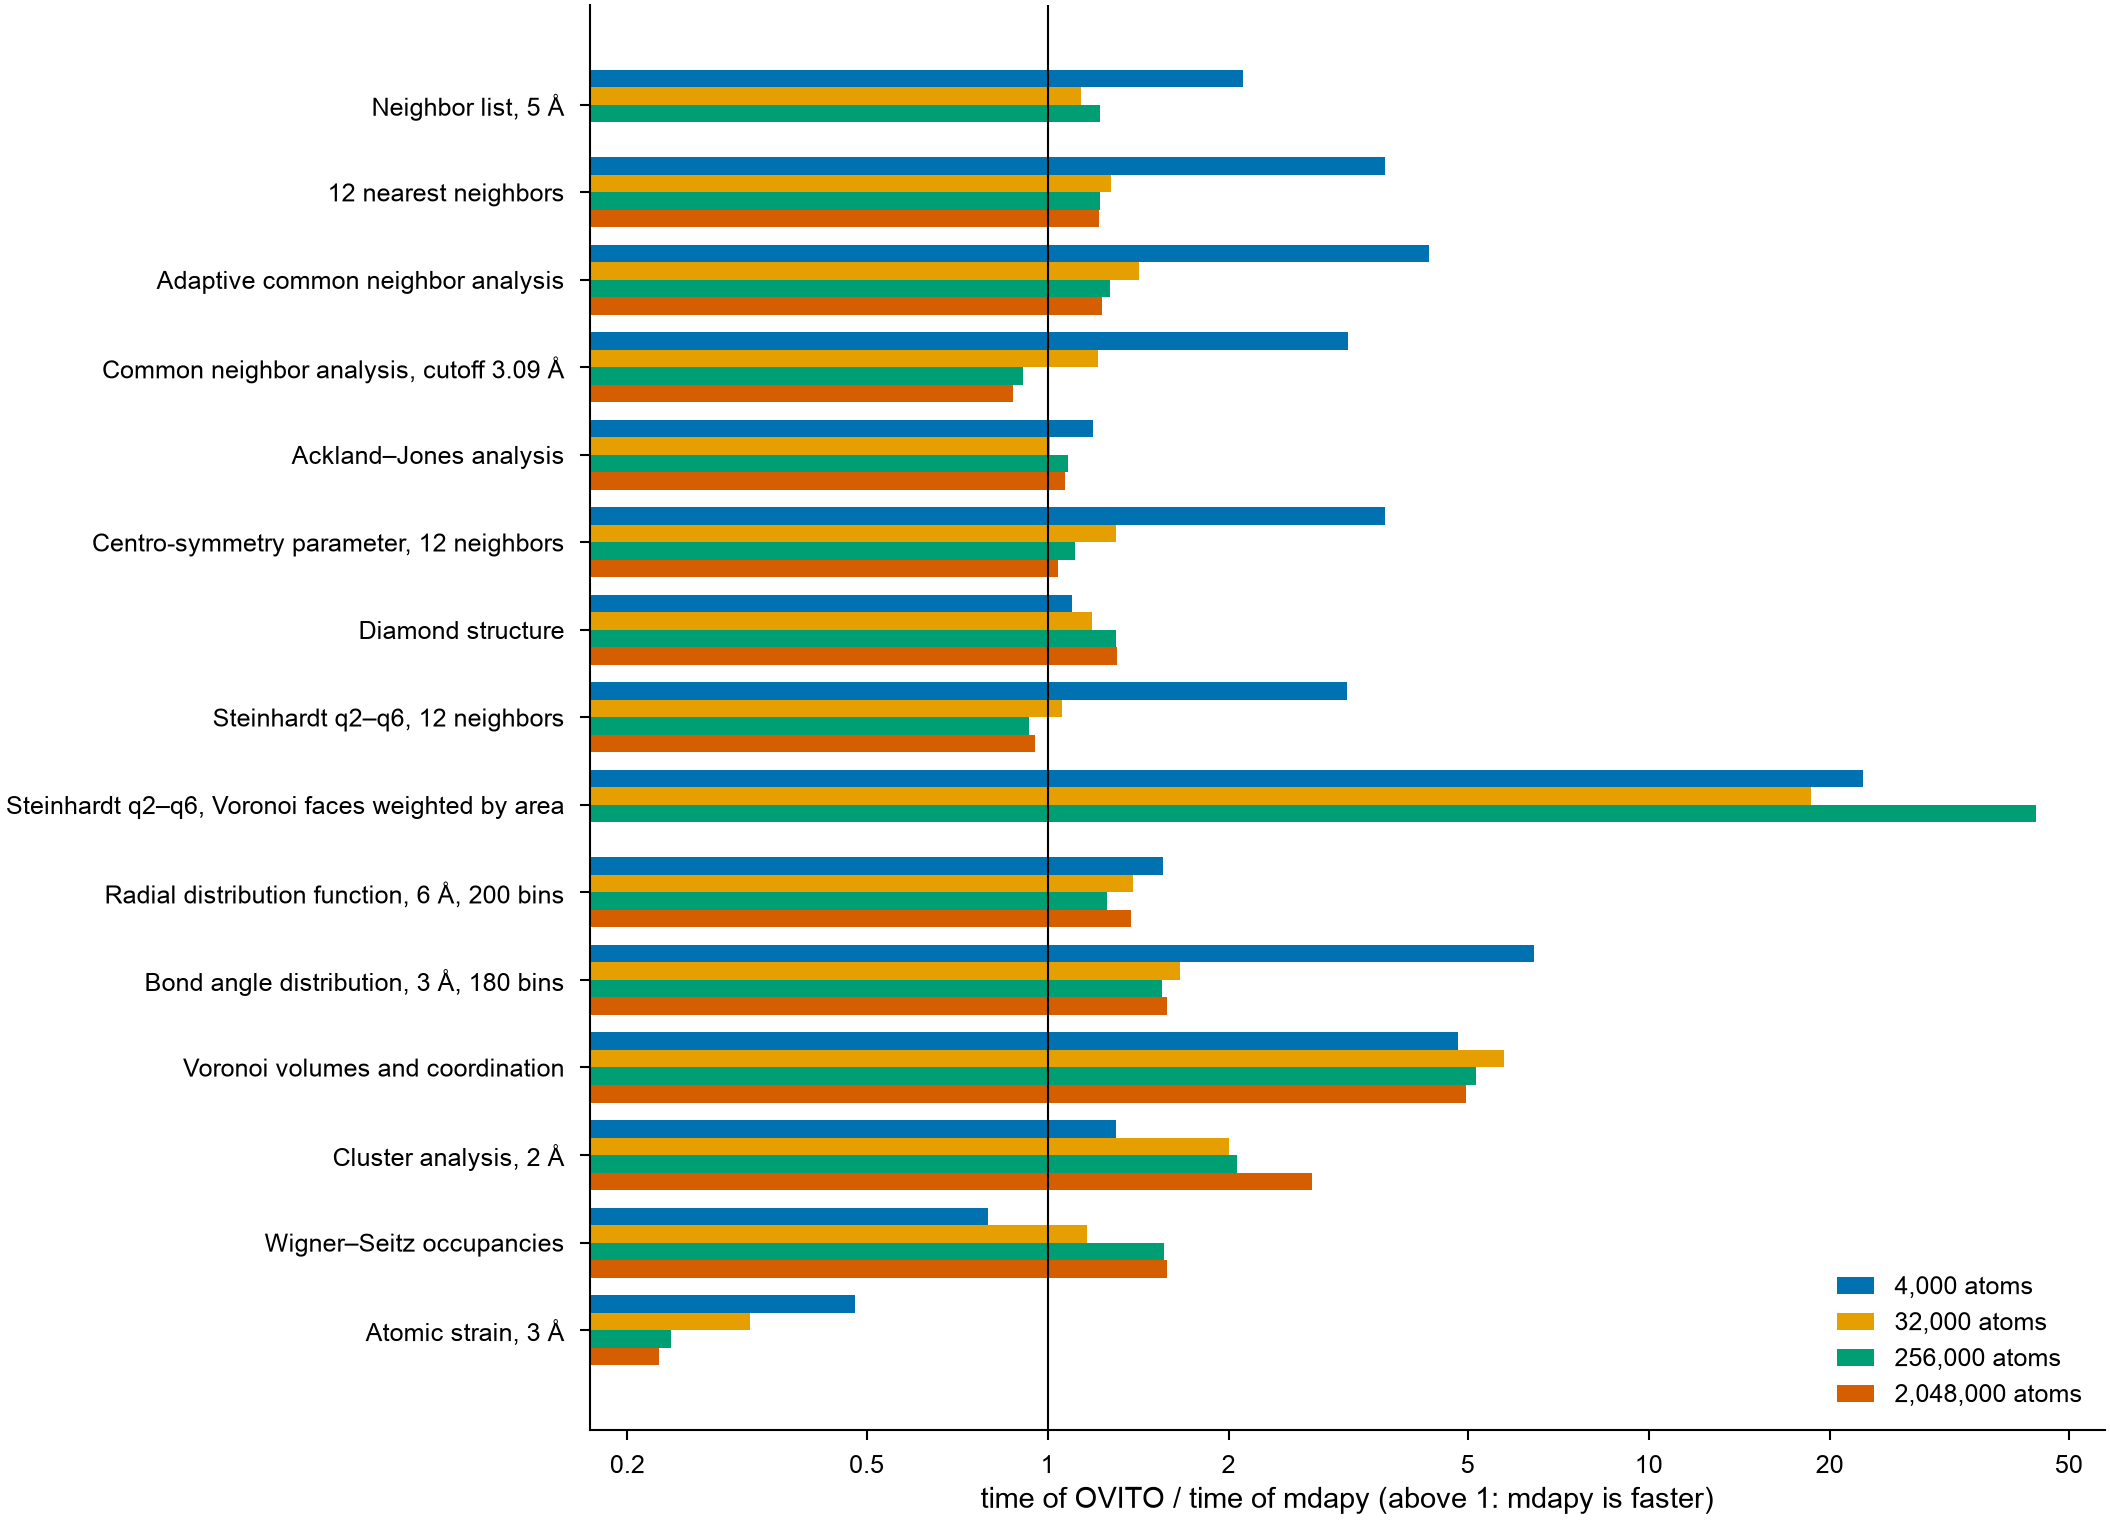
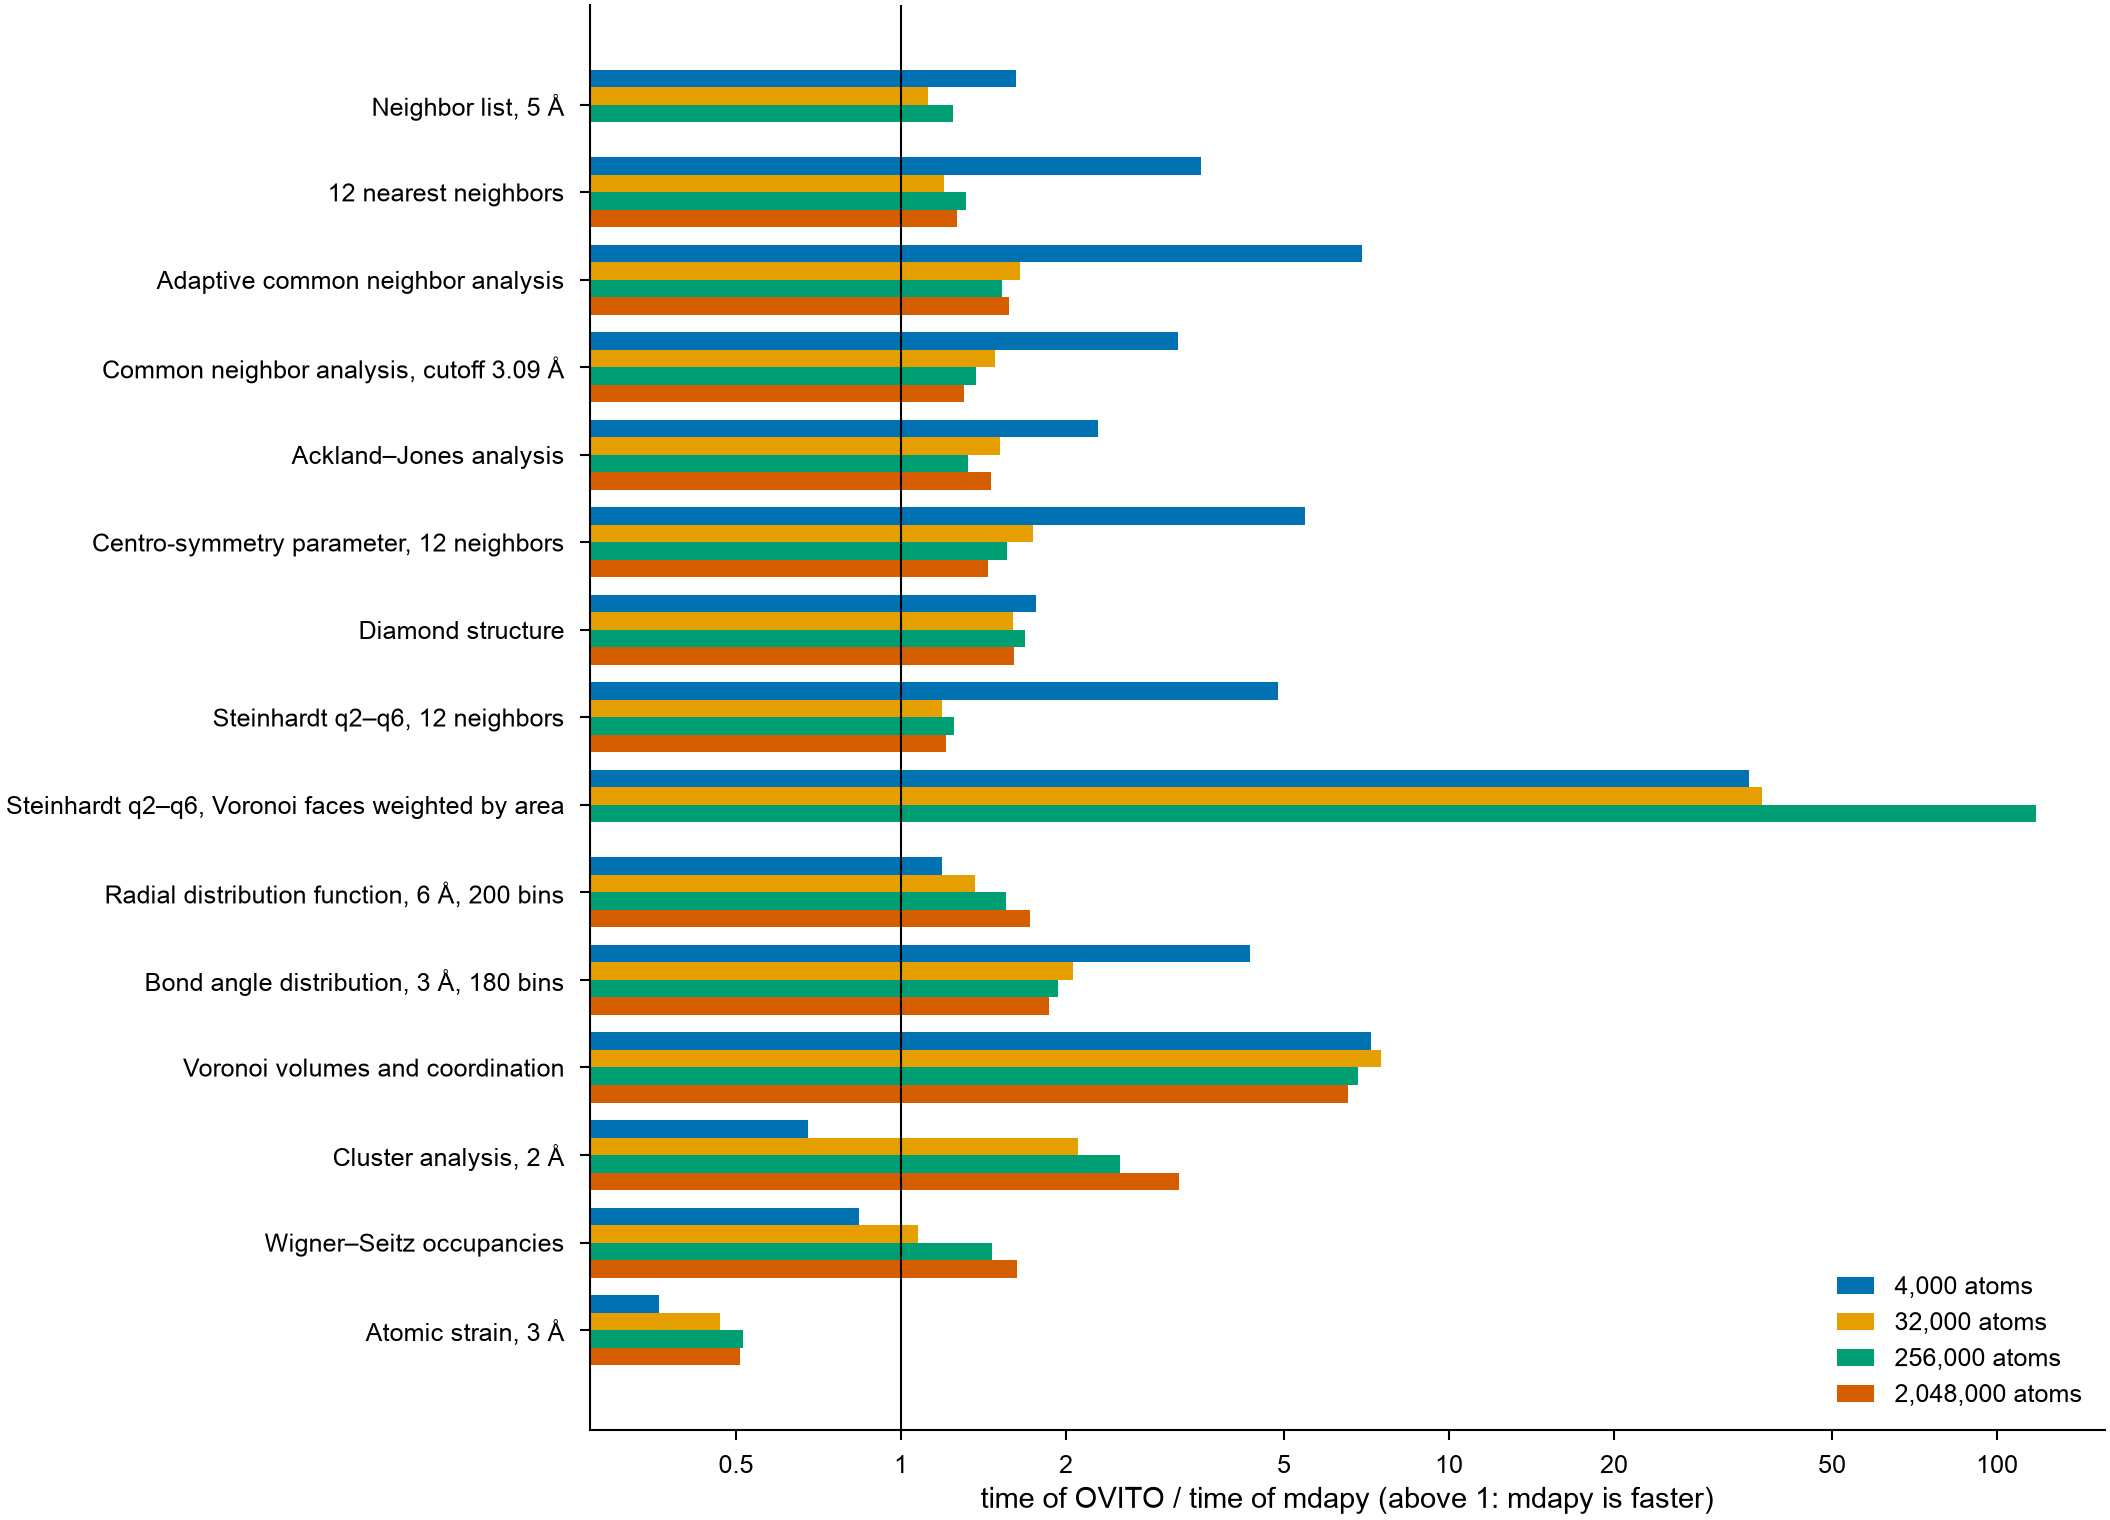
Performance against OVITO with every speedup

diff --git a/docs/performance/ovito.md b/docs/performance/ovito.md
@@ -17,41 +17,39 @@ memory of the process minus its peak before the timings.
 
 | Case | Atoms | mdapy (s) | OVITO (s) | OVITO / mdapy | mdapy (MB) | OVITO (MB) |
 |---|---:|---:|---:|---:|---:|---:|
-| Neighbor list, 5 Å | 256,000 | 0.058 | 0.071 | 1.22 | 208 | 799 |
-| 12 nearest neighbors | 2,048,000 | 0.353 | 0.430 | 1.22 | 437 | 857 |
-| Adaptive common neighbor analysis | 2,048,000 | 0.534 | 0.656 | 1.23 | 1154 | 147 |
-| Common neighbor analysis, cutoff 3.09 Å | 2,048,000 | 0.211 | 0.185 | 0.88 | 133 | 120 |
-| Ackland–Jones analysis | 2,048,000 | 0.606 | 0.647 | 1.07 | 1151 | 150 |
-| Centro-symmetry parameter, 12 neighbors | 2,048,000 | 0.477 | 0.497 | 1.04 | 1001 | 112 |
-| Diamond structure | 2,000,376 | 0.303 | 0.394 | 1.30 | 369 | 382 |
-| Steinhardt q2–q6, 12 neighbors | 2,048,000 | 0.563 | 0.537 | 0.95 | 1077 | 190 |
-| Steinhardt q2–q6, Voronoi faces weighted by area | 256,000 | 0.347 | 15.320 | 44.09 | 499 | 57 |
-| Radial distribution function, 6 Å, 200 bins | 2,048,000 | 0.333 | 0.459 | 1.38 | 121 | 77 |
-| Bond angle distribution, 3 Å, 180 bins | 2,048,000 | 0.401 | 0.632 | 1.58 | 147 | 1427 |
-| Voronoi volumes and coordination | 2,048,000 | 2.024 | 10.037 | 4.96 | 1968 | 89 |
-| Cluster analysis, 2 Å | 2,048,000 | 0.363 | 1.001 | 2.76 | 537 | 221 |
-| Wigner–Seitz occupancies | 2,037,841 | 0.120 | 0.190 | 1.58 | 115 | 140 |
-| Atomic strain, 3 Å | 2,048,000 | 0.370 | 0.083 | 0.23 | 756 | 261 |
+| Neighbor list, 5 Å | 256,000 | 0.059 | 0.073 | 1.24 | 192 | 765 |
+| 12 nearest neighbors | 2,048,000 | 0.368 | 0.466 | 1.27 | 438 | 860 |
+| Adaptive common neighbor analysis | 2,048,000 | 0.511 | 0.806 | 1.58 | 86 | 165 |
+| Common neighbor analysis, cutoff 3.09 Å | 2,048,000 | 0.177 | 0.231 | 1.30 | 243 | 114 |
+| Ackland–Jones analysis | 2,048,000 | 0.558 | 0.814 | 1.46 | 86 | 158 |
+| Centro-symmetry parameter, 12 neighbors | 2,048,000 | 0.424 | 0.611 | 1.44 | 79 | 127 |
+| Diamond structure | 2,000,376 | 0.303 | 0.486 | 1.60 | 329 | 370 |
+| Steinhardt q2–q6, 12 neighbors | 2,048,000 | 0.546 | 0.658 | 1.21 | 165 | 205 |
+| Steinhardt q2–q6, Voronoi faces weighted by area | 256,000 | 0.325 | 38.333 | 117.80 | 469 | 47 |
+| Radial distribution function, 6 Å, 200 bins | 2,048,000 | 0.296 | 0.509 | 1.72 | 183 | 86 |
+| Bond angle distribution, 3 Å, 180 bins | 2,048,000 | 0.322 | 0.600 | 1.86 | 255 | 1395 |
+| Voronoi volumes and coordination | 2,048,000 | 1.810 | 11.832 | 6.54 | 1952 | 67 |
+| Cluster analysis, 2 Å | 2,048,000 | 0.342 | 1.101 | 3.22 | 558 | 217 |
+| Wigner–Seitz occupancies | 2,037,841 | 0.118 | 0.192 | 1.63 | 121 | 141 |
+| Atomic strain, 3 Å | 2,048,000 | 0.147 | 0.075 | 0.51 | 483 | 268 |
 
 - From some 30 000 atoms on, the ratios hardly change with the size; below,
   a fixed cost of a few milliseconds per call in OVITO's pipelines favors
-  mdapy.
+  mdapy. Timings vary by some 15 % between runs on this machine, which
+  slows down as it heats up.
 - The analyses on the neighbors of each atom (structure identification,
-  Steinhardt parameters, distributions) take about as long in both, within
-  some 30 %. Voronoi tessellation is five times faster in mdapy, and
-  Steinhardt parameters over Voronoi neighbors weighted by area 20 to 40
-  times; OVITO took more than five minutes for the latter at two million
-  atoms, which was stopped.
-- mdapy builds a list of neighbors first and then computes, so analyses on
-  the nearest neighbors take more memory than in OVITO, which finds the
-  neighbors of each atom as it goes: about 0.5 kB per atom against less
-  than 0.1 kB. Common neighbor analysis with a cutoff finds them as it goes
-  in mdapy too, and takes as much memory as in OVITO. The Voronoi analysis
-  of mdapy keeps every face of every cell, about 1 kB per atom, for
-  Voronoi neighbors and indices later.
-- The atomic strain of mdapy includes building the neighbor list of the
-  reference, which serves every later frame; computing a frame then takes
-  0.14 s for two million atoms, against OVITO's 0.08 s.
+  Steinhardt parameters, distributions) are 1.2 to 1.9 times faster in
+  mdapy. Those on the nearest neighbors find them atom by atom as they go,
+  without a list, and take less memory than in OVITO. Voronoi tessellation
+  is six times faster in mdapy, and Steinhardt parameters over Voronoi
+  neighbors weighted by area 40 to 120 times; OVITO took more than five
+  minutes for the latter at two million atoms, which was stopped.
+- The Voronoi analysis of mdapy keeps every face of every cell, about 1 kB
+  per atom, for Voronoi neighbors and indices later.
+- Atomic strain is the one case where OVITO is faster, by two times: most of
+  mdapy's time goes into finding the neighbors in the reference, with the
+  exact distances of a neighbor list. Given a list of the reference
+  (`neighbors=`), built once for every frame, a frame takes 0.05 s.
 
 ## Cases
 
